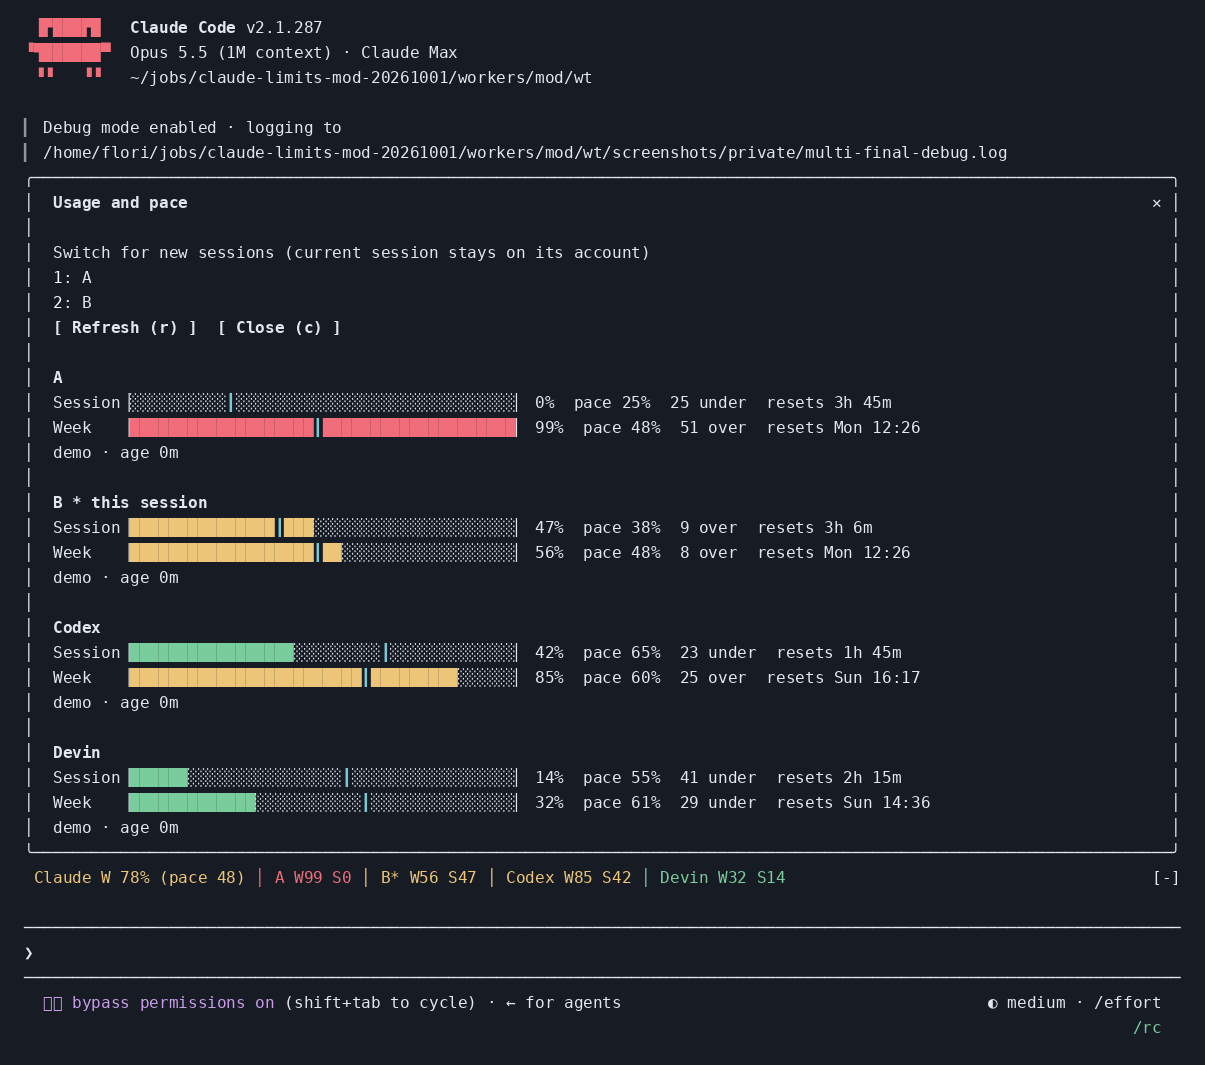
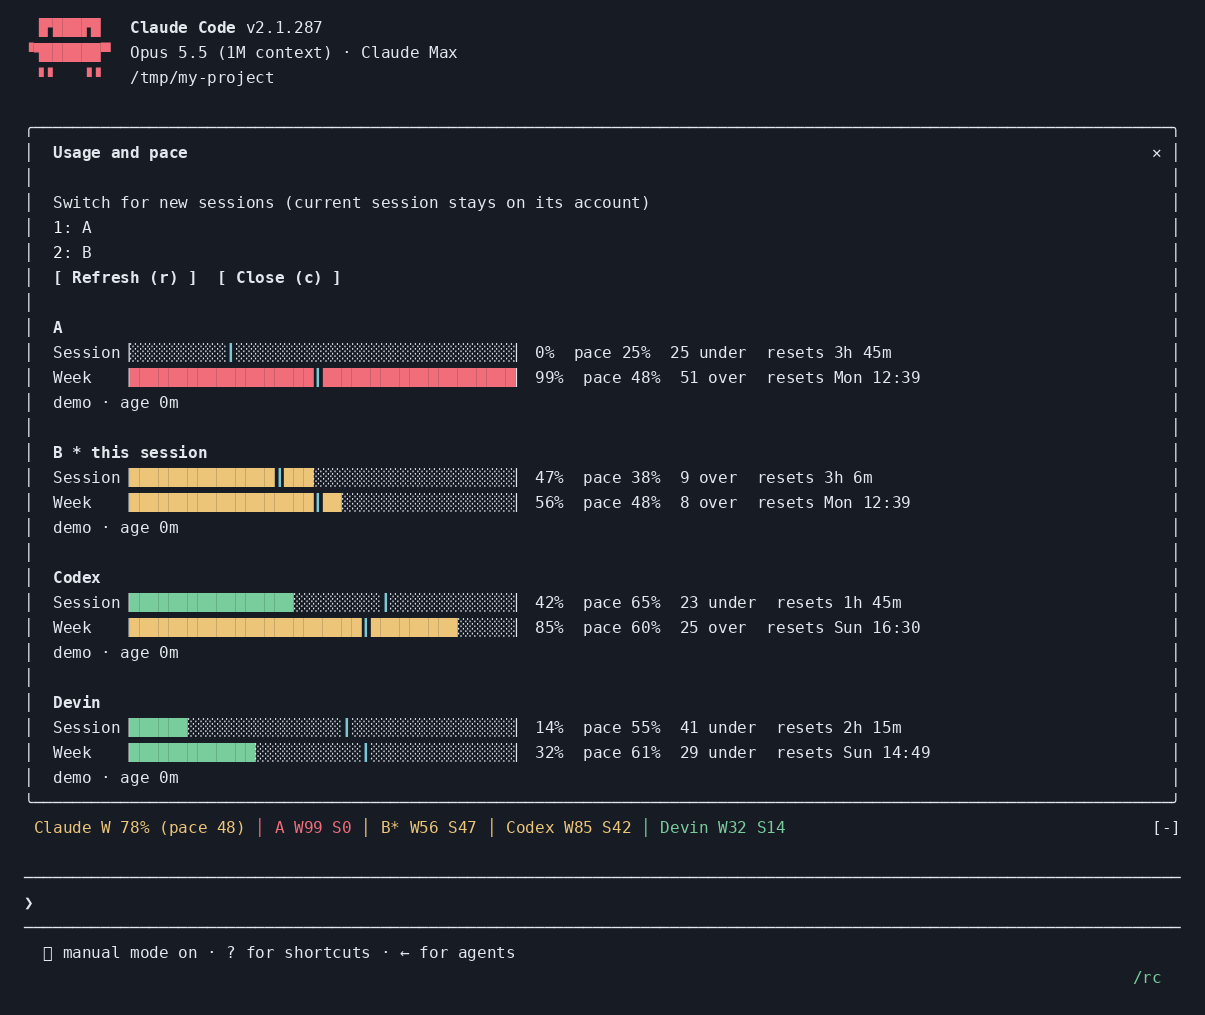
Clean demo captures, neutral example names, README polish

diff --git a/README.md b/README.md
@@ -2,7 +2,7 @@
 
 LimitPace puts subscription usage beside its pace line above the Claude Code prompt. See whether a five-hour or weekly allowance is ahead of schedule, compare Claude accounts and other providers, and open an account switcher with `/limitpace`. An optional advisor gives Claude provider-neutral delegation guidance.
 
-Requires Claude Code **2.1.287 or later** and a rollout that permits installed hooks modules. Version 0.1.0 passes strict validation and all 32 official tests. Terminal bands and panes have been checked in real interactive sessions without model prompts; Desktop still needs a live acceptance check.
+Requires Claude Code **2.1.287 or later**, the first version with mods. No dependencies, no build step, no telemetry.
 
 The images below are captures of LimitPace running in Claude Code at 120 columns with fixed demo data.
 
@@ -14,7 +14,7 @@ The images below are captures of LimitPace running in Claude Code at 120 columns
 
 ## Install
 
-People with access to the repository can install its marketplace:
+The repository is its own plugin marketplace:
 
 ```text
 /plugin marketplace add fstandhartinger/limitpace
@@ -22,7 +22,7 @@ People with access to the repository can install its marketplace:
 /reload-plugins
 ```
 
-Restart Claude Code if it does not appear after reloading. This repository is currently private; these commands do not make it public. For one development session, use `claude --plugin-dir /path/to/limitpace`.
+Restart Claude Code if it does not appear after reloading. For one development session, use `claude --plugin-dir /path/to/limitpace`.
 
 ## Read the band
 
@@ -64,7 +64,7 @@ For an installed plugin, values live under `pluginConfigs["limitpace@limitpace"]
 
 The config file is optional and every key is optional. With no file, LimitPace measures exactly the current Claude account and uses the detailed band. Invalid JSON gives a dim explanation and falls back to that account. Changes to the config file take effect after `/reload-plugins` or a restart.
 
-Use [the minimal example](examples/config.minimal.json) for a single account, or [the Sandy example](examples/config.sandy.json) for Claude accounts A/B, Codex and a local Devin quota sample. The Sandy example deliberately has no account-switch command: Sandy's dual-account runner selects its own account. A general example is:
+Use [the minimal example](examples/config.minimal.json) for a single account, or [the multi-account example](examples/config.multi.json) for two Claude accounts, Codex and a local Devin quota sample. That example has no account-switch command, because each account there lives in its own `CLAUDE_CONFIG_DIR`. A general example is:
 
 ```json
 {
